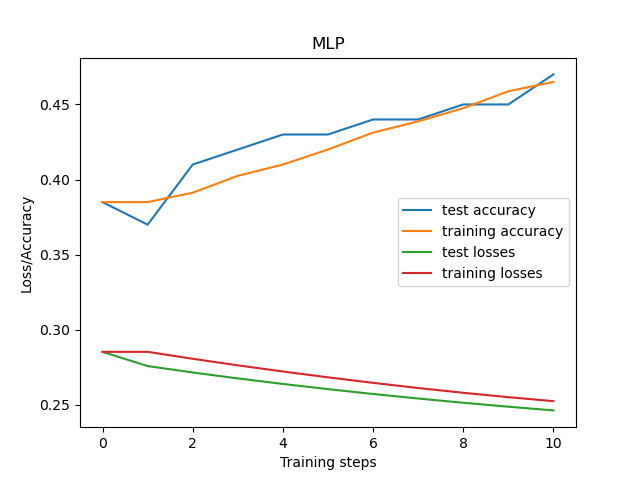
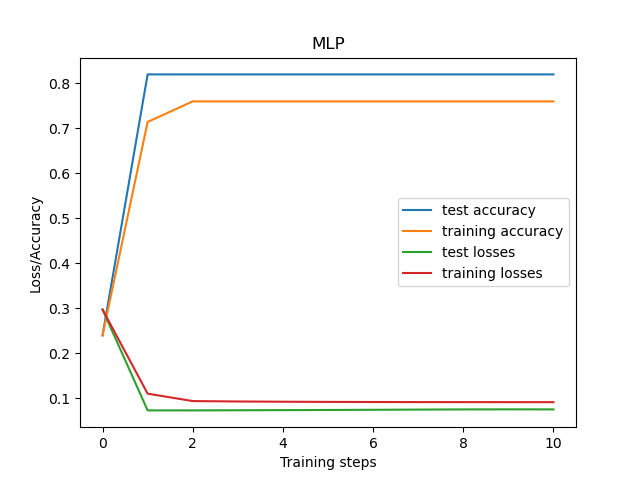
changed back to iter over dataset

diff --git a/model_pkg/VanillaTrainer.py b/model_pkg/VanillaTrainer.py
@@ -132,16 +132,25 @@ class VanillaTrainer():
             test_loss (float): average loss from output to target
             test_accuracy (float): average accuracy of output
         """
-        
-        inputs, targets = ds
-        predictions = self.arc(inputs)
-        loss = self.loss_func(predictions, targets)
-        accuracy =  targets == np.round(predictions, 0)
-        accuracy = np.mean(accuracy)
 
-        loss_mean = np.mean(loss)  
-        acc_mean = np.mean(accuracy)
-        return loss_mean, acc_mean
+        accuracy_aggregator = []
+        loss_aggregator = []
+
+        inputs_batch, targets_batch = ds
+        
+        for input, target in (zip(tqdm(inputs_batch, desc='testing'), targets_batch)):
+            prediction = self.arc(input)
+            loss = self.loss_func(prediction, target)
+            accuracy =  target == np.round(prediction, 0)
+            accuracy = np.mean(accuracy)
+
+            loss_aggregator.append(loss)
+            accuracy_aggregator.append(np.mean(accuracy))  
+
+        # return averages per batch
+        test_loss = np.mean(loss_aggregator)
+        test_accuracy =  np.mean(accuracy_aggregator)
+        return test_loss, test_accuracy
 
     def train_step(self, ds):
         """Implements train step for batch of datasamples
@@ -151,35 +160,33 @@ class VanillaTrainer():
         Returns:
             loss (float): average loss before after train step
         """
-        
         inputs, targets = ds    
-     
+        losses_aggregator = []
+        accuracy_aggregator = []
 
-        with tf.GradientTape() as tape:
-            # forward pass to get prediction
-            
-            prediction = self.arc(inputs)
-            # get loss
-            loss = self.loss_func(prediction, targets)
+        for input, target in zip(inputs, targets):
 
-            # losses_aggregator.append(loss)
-            print("help", np.round(prediction, 0))
-            accuracy =  targets == np.round(prediction, 0)
-            print(accuracy)
-            accuracy = np.mean(accuracy, axis=1)
-            print(accuracy)
-            # accuracy_aggregator.append(accuracy)
-            # get gradients
-            gradients = tape.gradient(loss, self.arc.trainable_variables)
+              with tf.GradientTape() as tape:
+                    # forward pass to get prediction
+                    prediction = self.arc(input)
+                    print("pred", prediction)
+                    # get loss
+                    print("tar", target)
+                    loss = self.loss_func(prediction, target)
+                    accuracy =  target == np.round(prediction, 0)
+                    accuracy = np.mean(accuracy)
+                    losses_aggregator.append(loss)
+                    accuracy_aggregator.append(accuracy)
+                    # get gradients
+                    gradients = tape.gradient(loss, self.arc.trainable_variables)
 
               # adapt the trainable variables with gradients 
-            self.optimizer_func.apply_gradients(zip(gradients, self.arc.trainable_variables))  
+              self.optimizer_func.apply_gradients(zip(gradients, self.arc.trainable_variables))  
 
-            # return average loss
-            loss = tf.reduce_mean(loss)
-            acc_mean = np.mean(accuracy)
-            print(acc_mean)
-            return loss, acc_mean
+        # return average loss
+        loss = np.mean(losses_aggregator)
+        acc_mean = np.mean(accuracy_aggregator)
+        return loss, acc_mean
 
 
     def error_function(self, prediction, targets):

diff --git a/model_pkg/MLP.py b/model_pkg/MLP.py
@@ -84,7 +84,7 @@ class MLP(tf.keras.Model):
             (tf.Tensor): final prediction of model
         """
         # make input fit to layer dense
-       # inputs = self.manage_input(inputs)
+        inputs = self.manage_input(inputs)
       #  print("inputs",inputs)
 
         for layer in self.hidden:
